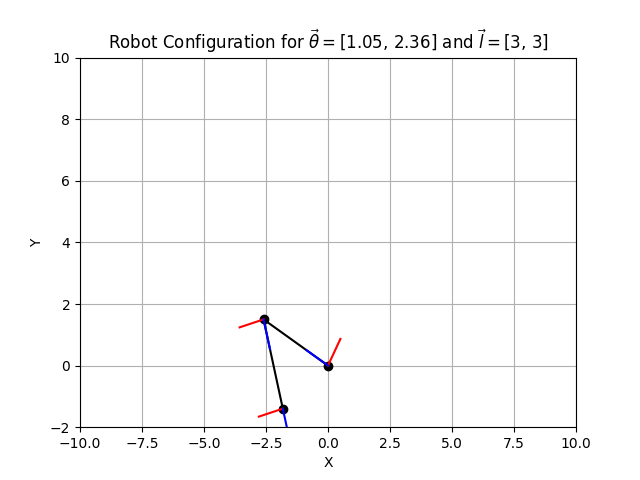
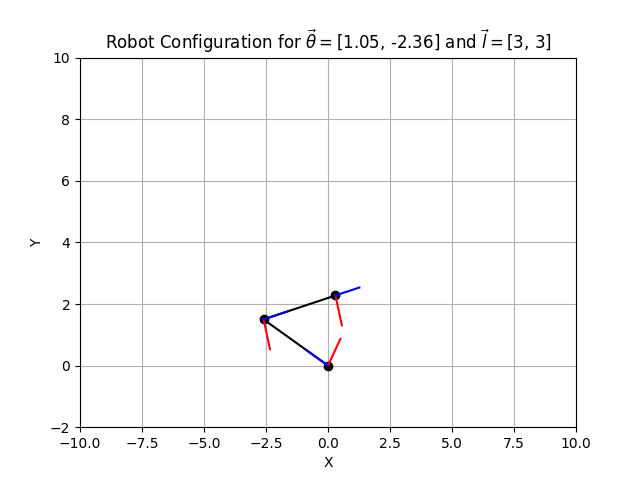
Fixed problem 3

diff --git a/Homework 3/homework3_erickson.py b/Homework 3/homework3_erickson.py
@@ -78,7 +78,7 @@ joint_angles = [np.pi/8, -2*np.pi/3]
 plt, end_effector_position, end_effector_theta = visualize_robot(joint_angles, [2, 3])
 plt.savefig('image3.png')
 
-joint_angles = [np.pi/3, float(3) * np.pi/4]
+joint_angles = [np.pi/3, float(-3) * np.pi/4]
 plt, end_effector_position, end_effector_theta = visualize_robot(joint_angles, [3, 3])
 plt.savefig('image4.png')
 print("End Effector Position:", end_effector_position)
